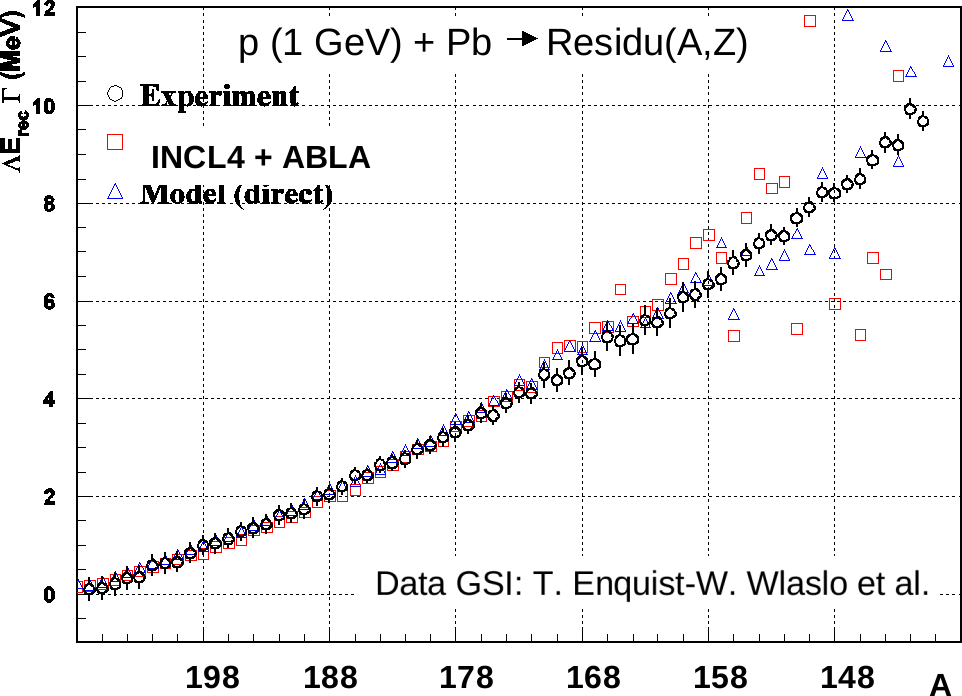
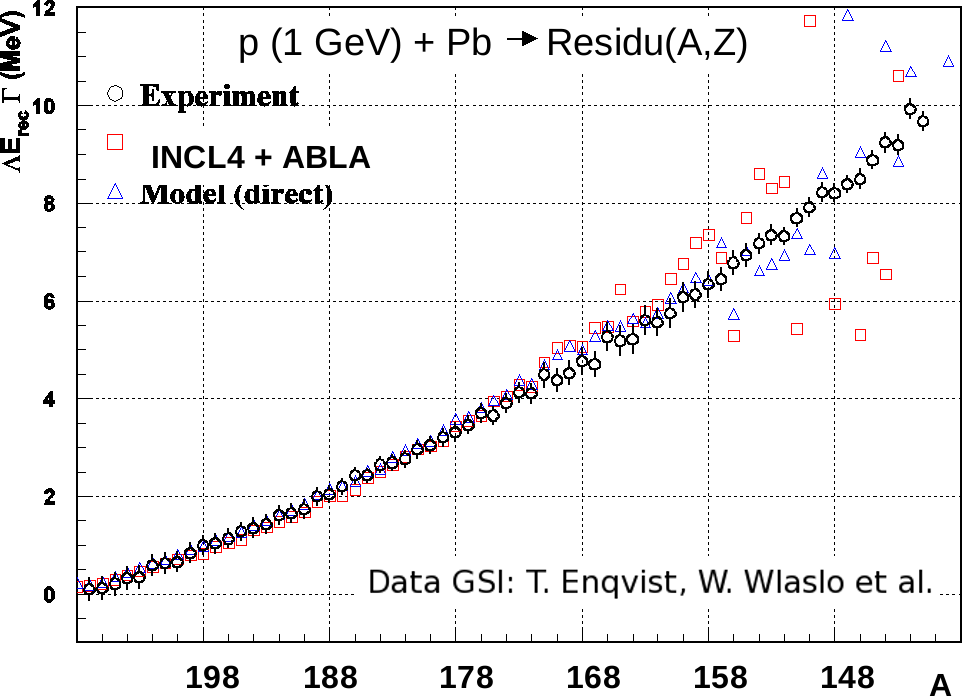
Including comments from AB and PK

Changed region(s): [[0.3742, 0.8147, 0.9667, 0.875]]

diff --git a/doc/talk/ah09cTalk.tex b/doc/talk/ah09cTalk.tex
@@ -90,16 +90,16 @@ aatos.heikkinen@cern.ch}}
 \frame{
 \frametitle{Outline}
 \begin{itemize}
-\item INCL cascade and ABLA evaporation/fission models in Geant4 9.2
+\item INCL cascade and ABLA evaporation/fission models in Geant4 9.2.
 
-\item New Geant4 physics list for spallation studies
+\item New Geant4 physics list for spallation studies.
 \item Examples of INCL/ABLA physics performance.
 
 \item Validation of Geant4 against data from GSI $^{12}$C beam fragmentation in water target:
 \begin{itemize}
 \item This will evolve as Geant4 benchmarking platform for 
 \href{http://www-nds.iaea.org/charpar/charpar.htmlx}{Heavy Charged-Particle Interaction 
-Data for Radiotherapy}
+Data for Radiotherapy}.
 \end{itemize}
 \end{itemize}
 \vspace{0.4cm}
@@ -141,20 +141,23 @@ no ad hoc parameters in the model.
 \begin{center}
 \includegraphics[width=0.6\textwidth]{interactions}
 \end{center}
+% No piN->piN  but piN<->Delta  
+% NOTE: Say that there is no explicit piN scattering but through a 
+%       \Delta formation and decay it is partly taken into account.
 }
 
 \subsection{}
 \frame{
 \frametitle{INCL4.3 (cont.)}
 \begin{itemize}
-\item Pauli blocking on nucleons after each events + long range correlation (CDPP)
+\item Pauli blocking on nucleons after each events + long range correlation (CDPP).
 
 \item No collision between spectators, only reflections (cannot escape).
 
-\item Stopping time of the cascade:   $t_{max}= 70 fm/c. (A/208)^{0.16}$
+\item Stopping time of the cascade:   $t_{max}= 70.0~\mathrm{fm/c}~(A/208)^{0.16}$.
 
 \item Current version INCL4.3. supports
-light cluster production (d,t,3He,4He)\footnote{First version 
+light cluster production (d, t, $^3$He, $^4$He)\footnote{First version 
        of light cluster production Nucl. Phys. A740 (2004) 195}.
 
 \item All outgoing particles (remnant nucleus, nucleons, pions)
@@ -179,11 +182,11 @@ characterised by (A, Z, E$^{*}$, J, P, $\theta$, $\phi$).
 A unique feature of Geant4 is to decouple physics models, cross sections, and processes using
 abstract interfaces, and manage the usage of different options with so-called the physics lists.
 
-\vspace{0.4cm}
+\vspace{0.3cm}
 We have prepared a new physics list {\tt QGSP\_INCL\_ABLA} suitable 
 for $^{12}$C ion beam fragmentation studies.
 
-\vspace{0.4cm}
+\vspace{0.3cm}
 \begin{center}
 \includegraphics[width=0.9\textwidth]{inclList}
 \end{center}
@@ -193,7 +196,7 @@ for $^{12}$C ion beam fragmentation studies.
 \frame{
 \frametitle{{\tt QGSP\_INCL\_ABLA} physics list (cont.)}
 First version of the physics list is now available for
-users \footnote{Submitted to JPCS May, 2009}.
+IAEA benchmarking~\footnote{Submitted to JPCS May, 2009.}.
 \vspace{0.1cm}
 \begin{center}
 \includegraphics[width=1.0\textwidth]{inclAbstract}
@@ -227,15 +230,17 @@ internal fragmentation model are shown.
 
 \subsection{}
 \frame{
-\frametitle{Excitation functions}
+\frametitle{INCL: Excitation functions}
 \begin{center}
 \includegraphics[width=1.0\textwidth]{inclExcitation}
 \end{center}
 }
 
+
+%SATO H. et al., Phys. Rev. C 64 (2001) 34607.
 \subsection{}
 \frame{
-\frametitle{Recoil velocity}
+\frametitle{INCL + ABLA: Recoil velocity}
 \begin{center}
 \includegraphics[width=0.8\textwidth]{inclRecoilVelocity}
 \end{center}
@@ -243,8 +248,7 @@ internal fragmentation model are shown.
 
 \subsection{}
 \frame{
-\frametitle{Recoil energy}
-\todo{Correct the spelling: T. Enqvist}
+\frametitle{INCL + ABLA : Recoil energy}
 \begin{center}
 \includegraphics[width=0.8\textwidth]{inclRecoilEnergy}
 \end{center}
@@ -252,7 +256,7 @@ internal fragmentation model are shown.
 
 \subsection{}
 \frame{
-\frametitle{INCL: light ions\footnote{From \cite{boudard09a}}}
+\frametitle{INCL: Light ions\footnote{From \cite{boudard09a}}}
 
 \begin{center}
 \includegraphics[width=0.9\textwidth]{inclAbstractC}
@@ -261,7 +265,8 @@ internal fragmentation model are shown.
 
 \subsection{}
 \frame{
-\frametitle{INCL: $^4$He 135~MeV/A + C \footnote{From \cite{boudard09a}}}
+\frametitle{INCL: $^4$He 135~MeV/A + C \footnote{Image from~\cite{boudard09a}. 
+                      Data points are from \cite{sato01a}. }}
 
 \begin{center}
 \includegraphics[width=0.75\textwidth]{he135_c}
@@ -270,7 +275,8 @@ internal fragmentation model are shown.
 
 \subsection{}
 \frame{
-\frametitle{INCL: $^{12}$He 135~MeV/A + C \footnote{From \cite{boudard09a}}}
+\frametitle{INCL: $^{12}$C 135~MeV/A + C \footnote{Image from~\cite{boudard09a}. 
+                      Data points are from \cite{sato01a}.}}
 
 \begin{center}
 \includegraphics[width=0.75\textwidth]{c135_c}
@@ -279,7 +285,8 @@ internal fragmentation model are shown.
 
 \subsection{}
 \frame{
-\frametitle{INCL: $^{12}$C 290~MeV/A + C \footnote{From \cite{boudard09a}}}
+\frametitle{INCL: $^{12}$C 290~MeV/A + C \footnote{Image from~\cite{boudard09a}. 
+                      Data points are from \cite{iwata01a}.}}
 \begin{center}
 \includegraphics[width=0.75\textwidth]{c290_c}
 \end{center}
@@ -287,7 +294,8 @@ internal fragmentation model are shown.
 
 \subsection{}
 \frame{
-\frametitle{INCL: $^{12}$C 290-400~MeV/A + Cu \footnote{From \cite{boudard09a}}}
+\frametitle{INCL: $^{12}$C 290-400~MeV/A + Cu \footnote{Image from~\cite{boudard09a}. 
+                      Data points are from \cite{iwata01a}.}}
 \begin{minipage}{5.5cm}
 \begin{center}
 \includegraphics[width=1.0\textwidth]{c290_cu}
@@ -358,7 +366,7 @@ research coordination meetings on Heavy Charged-Particle Interaction Data For Ra
 \subsection{}
 \frame{
 \frametitle{GSI exeriment:  Fragment energy\footnote{Image from~\cite{haettner06a}.}}
-EXFOR data format will be used. 
+EXFOR data format will be supported. 
 \begin{center}
 \includegraphics[width=0.75\textwidth]{gsiFragmentEnergy}
 \end{center}
@@ -367,23 +375,37 @@ EXFOR data format will be used.
 \subsection{}
 \frame{
 \frametitle{GSI exeriment: Attenuation and Bragg peak\footnote{Image from~\cite{haettner06a}.}}
-\begin{minipage}{6.5cm}
+\begin{minipage}{6.0cm}
 \begin{center}
 \includegraphics[height=0.80\textheight]{gsiAttenuationBragg}
 \end{center}
 \end{minipage}
-\begin{minipage}{5.0cm}
+\begin{minipage}{5.5cm}
 \begin{itemize}
-\item We are also preparing benchmarks for Geant4 Bertini cascade (proton beam)
-
-\item We expect to prepare most of the IAEA Geant4 INCL/ABLA benchmarks before October 2009.
-\begin{itemize}
-\item Benchmarks will be repeated when INCL5 is available 2010
-\end{itemize}
-
-\item Other IAEA Geant4 benchmarks will continue until spring 2010.
+\item  \href{http://github.com/kaitanie/hadrontherapy/}{Our software} 
+is based on exisiting {\bf Hadrontherapy} example and hadron physics {\bf test30} and 
+will evolve as Geant4 benchmarking platform for {\em Heavy Charged-Particle
+Interaction Data for Radiotherapy.}
 \end{itemize}
 \end{minipage}
+}
+
+\subsection{}
+\frame{
+\frametitle{Plans}
+\begin{itemize}
+\item Geant4 collaboration members from CEA-Sacley, INFN-Catania, J.~M.~Quesada (Universidad de Sevilla), 
+and others, will participate to compilation and evaluation of 
+charged-particle nuclear data for therapeutic applications.
+\item We expect to prepare most of the IAEA Geant4 INCL/ABLA benchmarks before 2010. (6 months)
+\begin{itemize}
+\item Benchmarks will be repeated when INCL5 is available 2010. (18 months)
+\end{itemize}
+\item We are also prepared to make other agreed protons and ions 
+benchmarks for Geant4 models. (12 months)
+
+%\item Other IAEA Geant4 benchmarks will continue until spring 2010.
+\end{itemize}
 }
 
 \bibliographystyle{plain}  % Options plain, unsrt, alpha, abbrv
